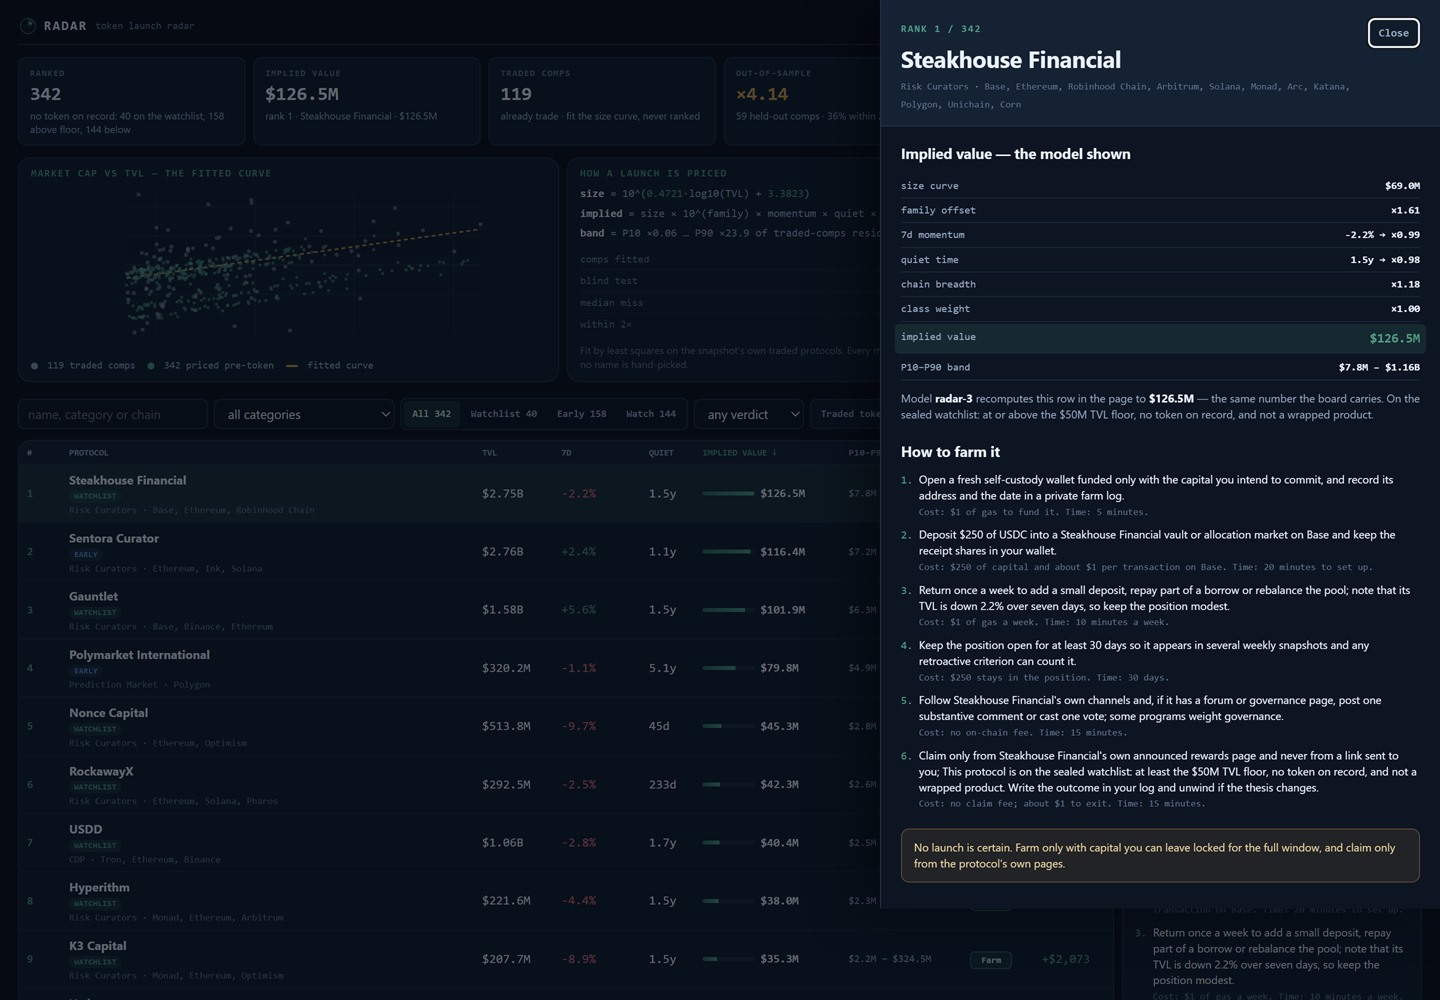
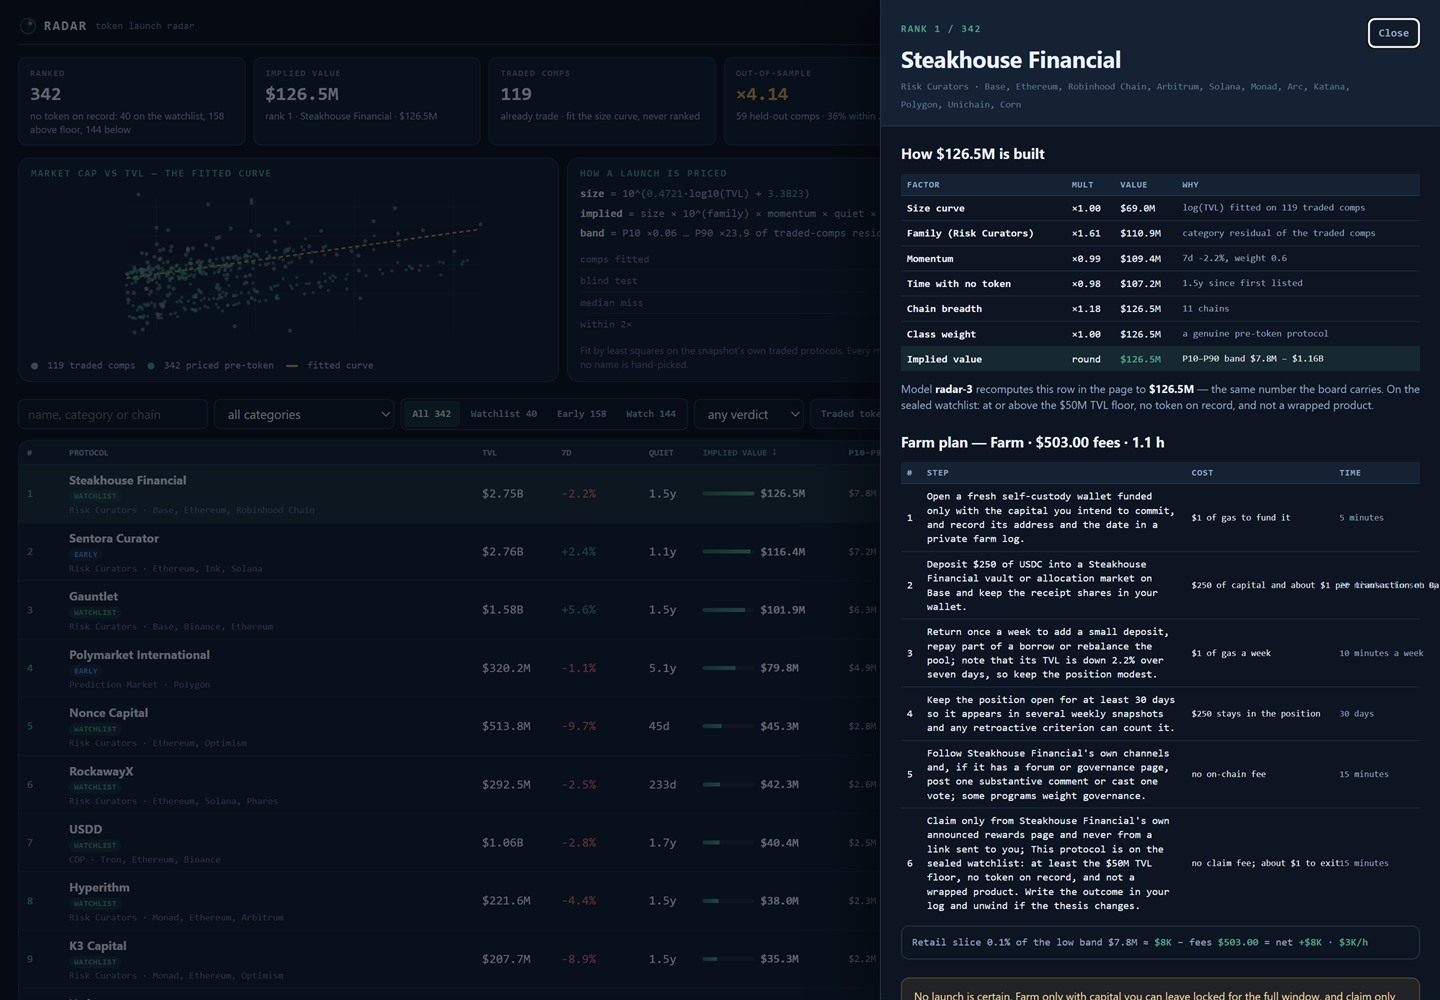
RADAR v4: dollar-factor build table, costed farm steps with totals, 8-way universe accounting

Changed region(s): [[0.625, 0.124, 1.0, 1.0]]

diff --git a/dashboard/app.js b/dashboard/app.js
@@ -141,7 +141,7 @@
       kpi('IMPLIED VALUE', fmtUsd(DATA.top_implied_usd), 'rank 1 · ' + DATA.rows[0].name + ' · ' + fmtUsd(DATA.rows[0].implied_value_usd)),
       kpi('TRADED COMPS', String(C.n_comps), 'already trade · fit the size curve, never ranked'),
       kpi('OUT-OF-SAMPLE', '×' + C.holdout_median_miss.toFixed(2), C.holdout_n + ' held-out comps · ' + Math.round(C.holdout_within_2x * 100) + '% within 2×', 'amber'),
-      kpi('WORTH FARMING', String(DATA.rows.filter(function (r) { return verdictOf(r).key === 'farm' || verdictOf(r).key === 'thin'; }).length), 'of ' + DATA.board_size + ' rows pass the net-of-cost test', 'mint'),
+      kpi('WORTH FARMING', String(DATA.rows.filter(function (r) { return verdictOf(r).key === 'farm'; }).length), 'best per hour +$' + Math.round(Math.max.apply(null, DATA.rows.map(function (r) { var v = verdictOf(r); return v.hours > 0 ? v.net / v.hours : 0; }))).toLocaleString('en-US') + ' · net of gas', 'mint'),
       kpi('UNIVERSE', String(DATA.accounting.reduce(function (a, s) { return a + s.count; }, 0)), 'every protocol in the snapshot accounted for')
     );
   }
@@ -363,26 +363,51 @@
         el('span', { class: 'sub', text: (row.category || 'Other') + ' · ' + (row.chains || []).join(', ') })),
       el('button', { class: 'close', type: 'button', text: 'Close', onclick: function () { dialog.close(); } })
     )));
+    // Running dollar value after each factor: the reader sees where the number comes from.
+    var steps = [];
+    var acc = row.size_value_usd;
+    steps.push(['Size curve', '×' + Math.pow(10, 0).toFixed(2), Math.round(acc), 'log(TVL) fitted on ' + C.n_comps + ' traded comps']);
+    var famVal = acc * Math.pow(10, row.family_offset);
+    steps.push(['Family (' + (row.category || 'Other') + ')', '×' + Math.pow(10, row.family_offset).toFixed(2), Math.round(famVal), 'category residual of the traded comps']);
+    acc = famVal * row.growth_mult;
+    steps.push(['Momentum', fmtX(row.growth_mult), Math.round(acc), '7d ' + fmtPct(row.change_7d) + ', weight ' + M.growth_weight]);
+    acc = acc * row.quiet_mult;
+    steps.push(['Time with no token', fmtX(row.quiet_mult), Math.round(acc), fmtAge(row.age_days) + ' since first listed']);
+    acc = acc * row.breadth_mult;
+    steps.push(['Chain breadth', fmtX(row.breadth_mult), Math.round(acc), row.chains.length + ' chains']);
+    acc = acc * row.class_weight;
+    steps.push(['Class weight', '×' + row.class_weight.toFixed(2), Math.round(acc), row.launch_class === 'derivative' ? 'wrapped / staked / exchange product' : 'a genuine pre-token protocol']);
+
     var body = el('div', { class: 'dbody' });
-    body.appendChild(el('section', { class: 'dsec' }, el('h3', { text: 'Implied value — the model shown' }),
-      el('div', { class: 'equation' },
-        el('div', null, el('span', { text: 'size curve' }), el('b', { text: fmtUsd(row.size_value_usd) })),
-        el('div', null, el('span', { text: 'family offset' }), el('b', { text: fmtX(Math.pow(10, row.family_offset)) })),
-        el('div', null, el('span', { text: '7d momentum' }), el('b', { text: fmtPct(row.change_7d) + ' → ' + fmtX(row.growth_mult) })),
-        el('div', null, el('span', { text: 'quiet time' }), el('b', { text: fmtAge(row.age_days) + ' → ' + fmtX(row.quiet_mult) })),
-        el('div', null, el('span', { text: 'chain breadth' }), el('b', { text: fmtX(row.breadth_mult) })),
-        el('div', null, el('span', { text: 'class weight' }), el('b', { text: '×' + row.class_weight.toFixed(2) })),
-        el('div', { class: 'hi' }, null, el('span', { text: 'implied value' }), el('b', { text: fmtUsd(row.implied_value_usd) })),
-        el('div', null, el('span', { text: 'P10–P90 band' }), el('b', { text: fmtUsd(row.low_usd) + ' – ' + fmtUsd(row.high_usd) }))
-      ),
+    body.appendChild(el('section', { class: 'dsec' }, el('h3', { text: 'How $' + fmtUsd(row.implied_value_usd).replace('$', '') + ' is built' }),
+      el('table', { class: 'build' }, el('thead', null, el('tr', null,
+        el('th', { text: 'FACTOR' }), el('th', { text: 'MULT' }), el('th', { text: 'VALUE' }), el('th', { text: 'WHY' })
+      )), el('tbody', null, steps.map(function (s) {
+        return el('tr', null, el('td', null, el('b', { text: s[0] })), el('td', { class: 'num', text: s[1] }), el('td', { class: 'num', text: fmtUsd(s[2]) }), el('td', { class: 'whycell', text: s[3] }));
+      }).concat([el('tr', { class: 'total' }, el('td', null, el('b', { text: 'Implied value' })), el('td', { text: 'round' }), el('td', { class: 'num', text: fmtUsd(row.implied_value_usd) }), el('td', { class: 'whycell', text: 'P10–P90 band ' + fmtUsd(row.low_usd) + ' – ' + fmtUsd(row.high_usd) }))]))),
       el('p', { class: 'why', html: 'Model <b>' + DATA.model_version + '</b> recomputes this row in the page to <b>' + fmtUsd(p.implied) + '</b> — ' + (p.implied === row.implied_value_usd ? 'the same number the board carries.' : 'stale data.') + ' ' + klass })
     ));
-    var plan = el('ol', { class: 'plan' });
-    row.farm_steps.forEach(function (s) {
+    var plan = el('table', { class: 'plantbl' }, el('thead', null, el('tr', null, el('th', { text: '#' }), el('th', { text: 'STEP' }), el('th', { text: 'COST' }), el('th', { text: 'TIME' }))));
+    var ptbody = el('tbody'); var fee = 0, mins = 0;
+    row.farm_steps.forEach(function (s, i) {
       var at = s.indexOf(' Cost: ');
-      plan.appendChild(el('li', null, el('div', { class: 'act', text: at >= 0 ? s.slice(0, at) : s }), el('em', { text: at >= 0 ? s.slice(at + 1) : '' })));
+      var action = at >= 0 ? s.slice(0, at) : s;
+      var tail = at >= 0 ? s.slice(at + 1) : '';
+      var parts = tail.split('. ');
+      var cost = (parts[0] || '').replace(/\.$/, '').replace(/^Cost:\s*/, '');
+      var time = (parts[1] || '').replace(/\.$/, '').replace(/^Time:\s*/, '');
+      var cd = (cost.match(/\$([\d.]+)/) || [])[1]; if (cd) fee += parseFloat(cd);
+      var td = (time.match(/([\d.]+)\s*min/) || [])[1]; if (td) mins += parseFloat(td);
+      ptbody.appendChild(el('tr', null, el('td', { class: 'num', text: String(i + 1) }), el('td', null, el('b', { text: action })), el('td', { class: 'num', text: cost }), el('td', { class: 'num', text: time })));
     });
-    body.appendChild(el('section', { class: 'dsec' }, el('h3', { text: 'How to farm it' }), plan));
+    plan.appendChild(ptbody);
+    var hh = (mins / 60).toFixed(1);
+    body.appendChild(el('section', { class: 'dsec' }, el('h3', { text: 'Farm plan — ' + v.label + ' · $' + fee.toFixed(2) + ' fees · ' + hh + ' h' }), plan,
+      el('div', { class: 'econ', html:
+        'Retail slice 0.1% of the low band ' + fmtUsd(row.low_usd) + ' ≈ <b>' + fmtUsd(row.low_usd * 0.001) + '</b> − fees <b>$' + fee.toFixed(2) + '</b> = net <b>' + (v.net >= 0 ? '+' : '−') + fmtUsd(Math.abs(v.net)) + '</b>' +
+        (v.hours > 0 ? ' · <b>' + fmtUsd(Math.max(0, v.net) / v.hours) + '/h</b>' : '')
+      })
+    ));
     body.appendChild(el('section', { class: 'dsec' }, el('div', { class: 'caveat', text:
       v.key === 'skip' ? 'On this model’s low-end band, even a 0.1% retail share does not cover the deposit and gas. Farm only if you disagree with the band.'
         : 'No launch is certain. Farm only with capital you can leave locked for the full window, and claim only from the protocol’s own pages.' })));

diff --git a/lib/model.ts b/lib/model.ts
@@ -541,16 +541,33 @@ function evidence(snapshot: Snapshot, board: BoardRow[], ctx: ModelContext): { s
     x2: round4(hi), y2: round4(ctx.slope * hi + ctx.intercept),
   };
 
-  // A disjoint accounting of every slug in the sealed snapshot.
+  // A disjoint accounting of every slug in the sealed snapshot, by the rule
+  // that sets each one aside rather than by a hand-written name list.
   const pre = new Set(snapshot.protocols.filter(isPre).map((p) => p.slug));
   const traded = new Set(snapshot.protocols.filter((p) => !isPre(p) && p.category !== 'CEX' && p.tvl_usd > 0 && p.mcap_usd !== null && p.mcap_usd > 0).map((p) => p.slug));
-  const cex = new Set(snapshot.protocols.filter((p) => !pre.has(p.slug) && !traded.has(p.slug) && p.category === 'CEX').map((p) => p.slug));
-  const rest = snapshot.protocols.filter((p) => !pre.has(p.slug) && !traded.has(p.slug) && !cex.has(p.slug)).length;
+  const rest = snapshot.protocols.filter((p) => !pre.has(p.slug) && !traded.has(p.slug));
+  const isBridge = (p: SnapshotProtocol) => /bridge/i.test(p.category ?? '');
+  const isStaking = (p: SnapshotProtocol) => /staking|restak|staked|anchor btc|decentralized btc/i.test(p.category ?? '');
+  const isExchange = (p: SnapshotProtocol) => p.category === 'CEX' || EXCHANGES.some((e) => p.name.startsWith(e));
+  const isWrapped = (p: SnapshotProtocol) => WRAPPED.test(p.name);
+  const buckets = { bridge: 0, staking: 0, exchange: 0, wrapped: 0, version: 0, kin: 0 };
+  for (const p of rest) {
+    if (isBridge(p)) buckets.bridge++;
+    else if (isStaking(p)) buckets.staking++;
+    else if (isExchange(p)) buckets.exchange++;
+    else if (isWrapped(p)) buckets.wrapped++;
+    else if (VERSIONED.test(p.name)) buckets.version++;
+    else buckets.kin++;
+  }
   const accounting: AccountingSlice[] = [
     { label: 'ranked · no token on record', count: pre.size, tone: 'mint' },
     { label: 'traded comps · fit the curve', count: traded.size, tone: 'sky' },
-    { label: 'exchanges · set aside', count: cex.size, tone: 'amber' },
-    { label: 'versions of a token · set aside', count: rest, tone: 'dim' },
+    { label: 'bridges · a token already trades', count: buckets.bridge, tone: 'bridge' },
+    { label: 'liquid staking · product of a token', count: buckets.staking, tone: 'staking' },
+    { label: 'exchange custody · a wallet balance', count: buckets.exchange, tone: 'amber' },
+    { label: 'wrapped or staked by name', count: buckets.wrapped, tone: 'wrapped' },
+    { label: 'versioned · another pool of a protocol', count: buckets.version, tone: 'dim' },
+    { label: 'kin of a token · shares the ticker', count: buckets.kin, tone: 'kin' },
   ];
   return { scatter, fitLine, accounting };
 }

diff --git a/dashboard/app.css b/dashboard/app.css
@@ -69,6 +69,24 @@ u { text-decoration: none; color: var(--mint); }
 .account-list { display: grid; gap: 5px; margin-top: 10px; }
 .account-row { display: flex; justify-content: space-between; gap: 8px; color: var(--muted); font: 500 10px/1.3 var(--mono); }
 .account-row b { color: var(--ink); }
+.lg.bridge { background: #3f7fa8; } .lg.staking { background: #6c6fae; } .lg.wrapped { background: #a46f8e; } .lg.kin { background: #3f5168; }
+
+.build, .plantbl { width: 100%; border-collapse: collapse; font: 500 10.5px/1.35 var(--mono); }
+.build th, .plantbl th { position: static; background: var(--panel2); padding: 5px 6px; border-bottom: 1px solid var(--line); color: var(--muted); font: 600 9px var(--mono); text-align: left; }
+.build td, .plantbl td { padding: 5px 6px; border-bottom: 1px solid var(--soft); }
+.build td:last-child, .plantbl td:last-child { color: var(--muted); }
+.build .total td { background: var(--mint-soft); color: var(--ink); }
+.build .total td.num { color: var(--mint); font-weight: 700; }
+.whycell { font-size: 9.5px; }
+.plantbl td:nth-child(2) b { font-weight: 500; }
+.plantbl { table-layout: fixed; }
+.plantbl th:first-child, .plantbl td:first-child { width: 20px; }
+.plantbl th:nth-child(2), .plantbl td:nth-child(2) { width: 52%; }
+.plantbl th:nth-child(3), .plantbl td:nth-child(3) { width: 29%; font-size: 9px; }
+.plantbl th:nth-child(4), .plantbl td:nth-child(4) { width: 17%; font-size: 9px; }
+.plantbl td { word-break: break-word; }
+.econ { margin-top: 8px; padding: 8px 10px; border: 1px solid var(--line); border-radius: var(--r); background: var(--bg2); color: var(--muted); font: 500 10.5px/1.5 var(--mono); }
+.econ b { color: var(--mint); }
 
 .toolbar { display: flex; flex-wrap: wrap; align-items: center; gap: 6px; padding: 6px 0 10px; }
 .toolbar input,.toolbar select { height: 30px; padding: 0 9px; background: var(--bg2); border: 1px solid var(--line); border-radius: var(--r-sm,6px); }
